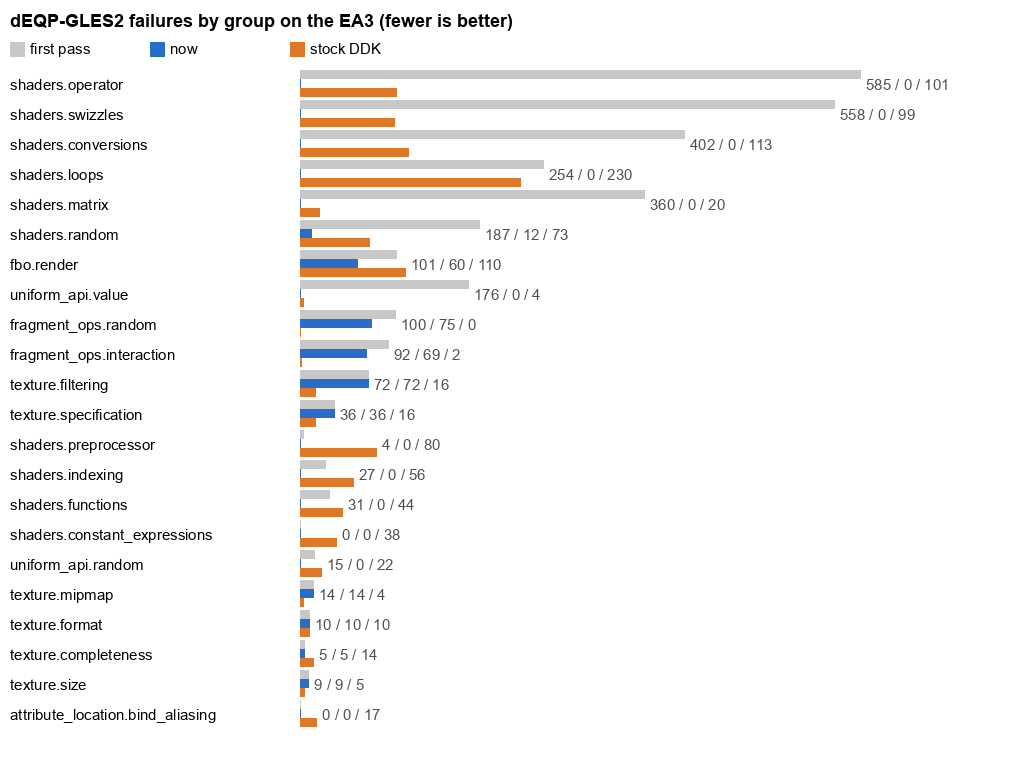
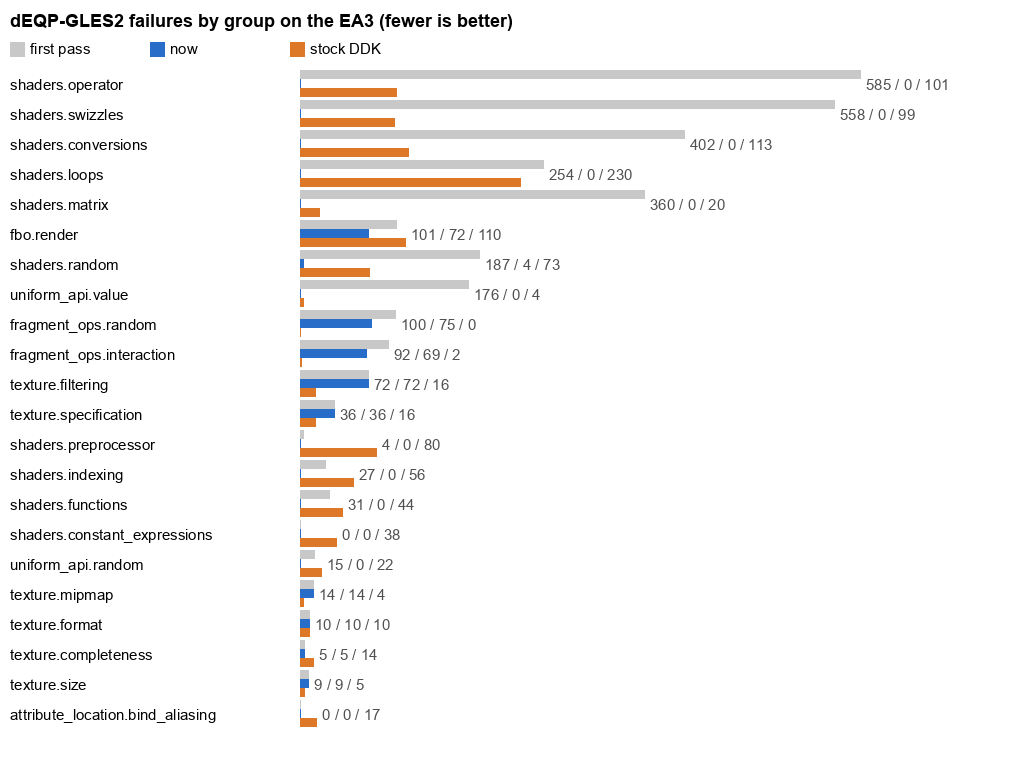
dEQP-GLES2 expectations after the compiler's F16 constant fix: every F16-only failure passes (16333 pass, 371 failing every run, 30 flakes); build-log entry updated

Changed region(s): [[0.3069, 0.2805, 0.5525, 0.374], [0.0, 0.3429, 0.1228, 0.374], [0.0, 0.2805, 0.1228, 0.3117]]

diff --git a/docs/log/entries/2026-11-02-1530-deqp-gles2.md b/docs/log/entries/2026-11-02-1530-deqp-gles2.md
@@ -10,13 +10,13 @@ leaves the GPU stuck.
 | | pass | fail | crash | timeout | not supported |
 |---|---|---|---|---|---|
 | ours, first pass | 13,592 (79.2%) | 3,075 | 35 | 1 | 445 |
-| ours, now | **16,337 (95.2%)** | 378 | 0 | 1 | 445 |
+| ours, now | **16,333 (95.2%)** | 382 | 0 | 1 | 445 |
 | stock DDK (Cedarview 1.7, i386 under IA32) | 15,837 (92.3%) | 1,146 | 11 | 8 | 124 |
 
 ![Failures per group: first pass, now, and the DDK](../img/2026-11-02-1530-deqp-gles2-groups.png)
 
 "Now" is the first pass with the failing tests rerun on each later build (up to um-re
-9cc3bb4), not a second full pass. A 1-in-4 sample of the whole suite on the later build
+269889a), not a second full pass. A 1-in-4 sample of the whole suite on the later build
 found nothing new beyond order-dependent `fbo.render` cases (they fail after other FBO
 tests and pass alone; listed as flakes) and an F16 uniform regression that was fixed the same morning (below). Data:
 `data/2026-11-02-1530-deqp-gles2.csv`; expectations:
@@ -47,17 +47,18 @@ swizzles 99, operators 83, preprocessor 80, indexing 56): 864 of its 1,165 failu
 Its compiler never returns on dEQP's recursive macros; those ten tests took the box down
 seven times, so they're in `ddk-skips.txt`.
 
-Ours (378):
+Ours (382, of which 12 are the order-dependent `fbo.render` flakes, failing in their latest run):
 
 - `fragment_ops.random`/`interaction`: 144. The DDK fails 2.
 - Cube maps: 141. NPOT faces, the small-face layout, 8/16-bit and ETC1 faces. The DDK
   fails many of these too.
 - `fbo.render`: 60. The shared and recreated colour buffers fail on the DDK as well;
   ours also stores 565/4444/5551 targets as RGBA8.
-- Compiler: 11, eight of them on the F16 path (they pass with `SGX545_DEBUG=nof16`).
-  A mediump value widened to f32 for the colour was never written when it went into a
+- Compiler: 4 (`all_features` 5/20/32/88, failing with F16 off too). Every test that
+  failed only on the F16 path now passes. Two fixes from the last rounds: a mediump value widened to f32 for the colour was never written when it went into a
   register (an F16 result reached the colour pack as raw bits, or the register kept
-  stale data); fixed in um-re 9cc3bb4, +14. Earlier the same day a regression on
+  stale data); fixed in um-re 9cc3bb4, +14; and an F16 constant fed to a widening was read as f32
+  bits (a denormal, so 0: log2 of 2.0 became log2 of 0), fixed in 269889a, +7. Earlier the same day a regression on
   that path was fixed: four `shaders.linkage.uniform_struct_*` cases that
   passed in the first pass failed from the 05:06 compiler merge on. An F16 uniform read
   as a whole pair took its neighbour's register (sa8 for sa10's high half). And a
